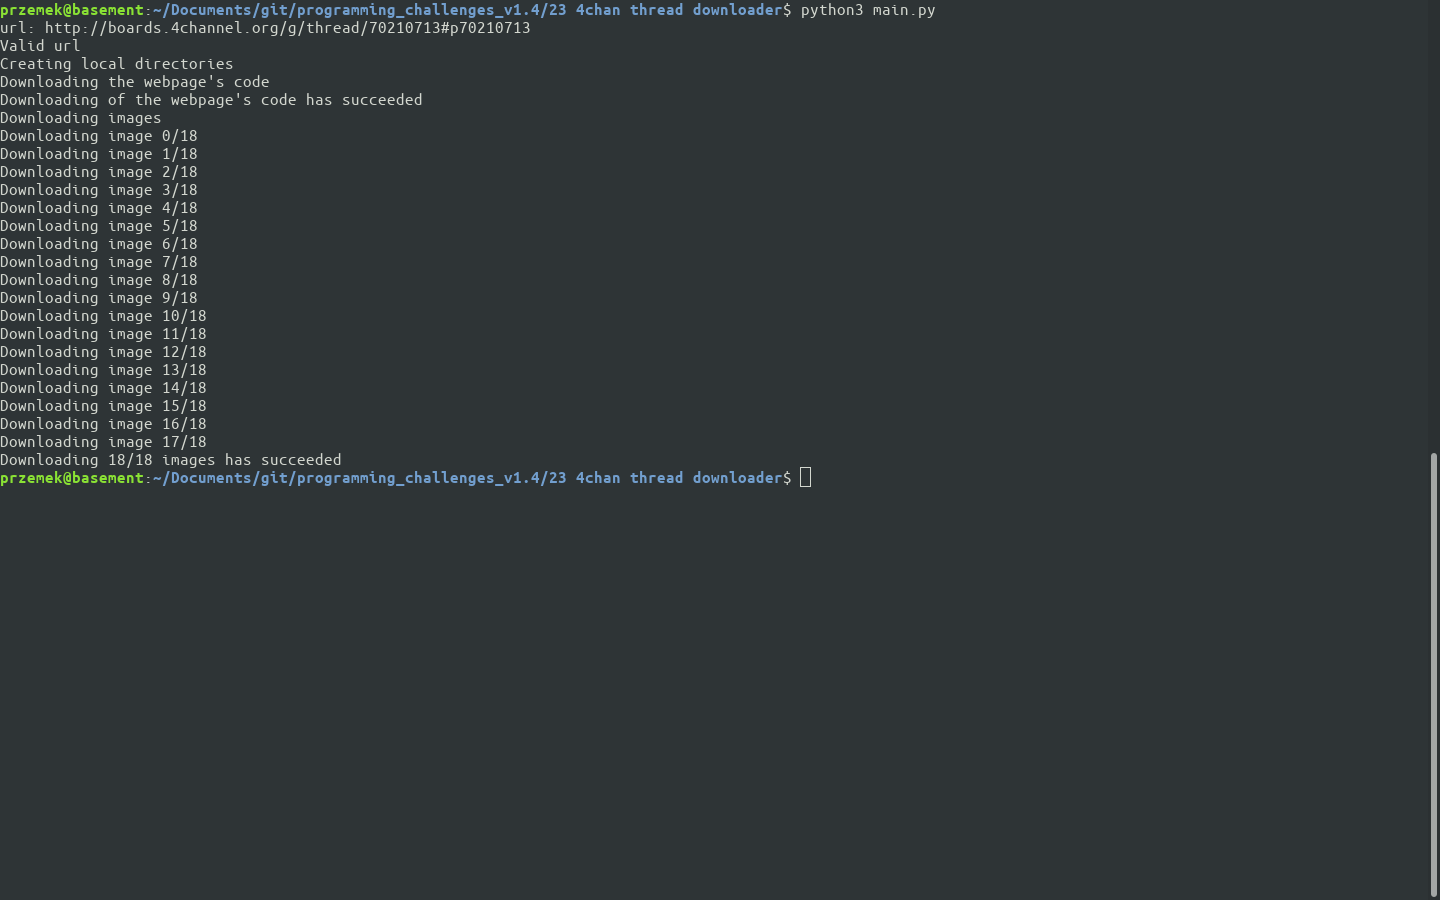
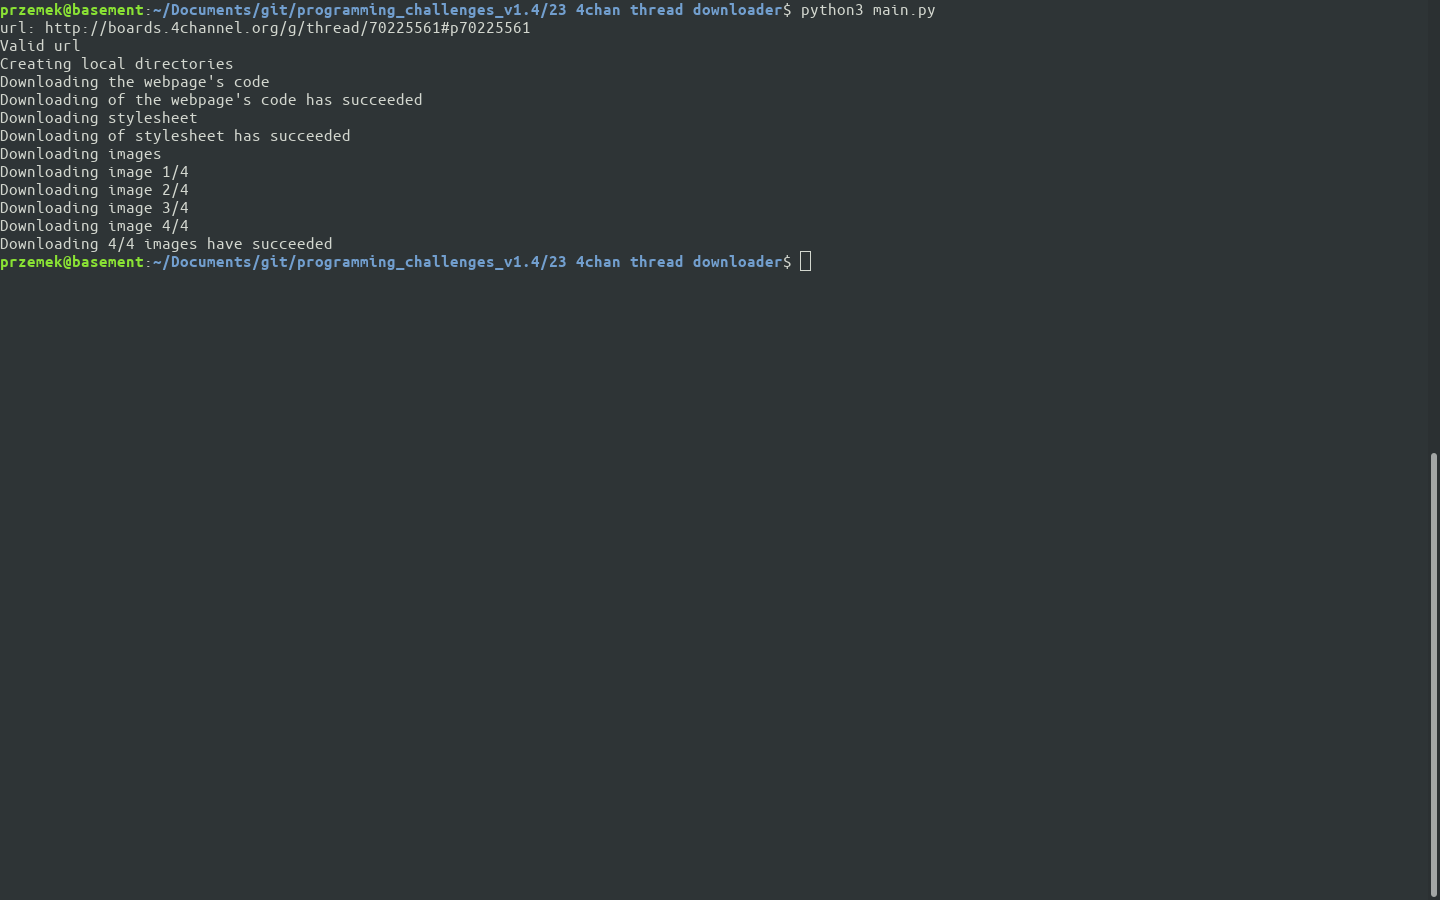
Added css handling

Changed region(s): [[0.0, 0.1244, 0.5625, 0.56], [0.4062, 0.5289, 0.5312, 0.56], [0.2188, 0.1244, 0.25, 0.1556]]

diff --git a/23 4chan thread downloader/main.py b/23 4chan thread downloader/main.py
@@ -51,17 +51,35 @@ class Downloader:
 
   def scrape_website(self):
     soup = BeautifulSoup(self.content, 'html.parser')
+    self.get_stylesheet(soup)
     self.get_body(soup)
     self.get_images(soup)
 
+  def get_stylesheet(self, soup):
+    print('Downloading stylesheet')
+    stylesheet_url = soup.find('link', {'rel': 'stylesheet'})['href']
+    response = requests.get('http:' + stylesheet_url)
+
+    if str(response.status_code) == '200':
+      print('Downloading of stylesheet has succeeded')
+
+      with open(os.path.join(self.dir, 'styles.css'), 'w') as f:
+        f.write(response.text)
+      
+      self.content = '<!DOCTYPE HTML><head><link rel="stylesheet" href="styles.css"></head>'
+    else:
+      print('Downloading of stylesheet has failed')
+      self.content = '<!DOCTYPE HTML>'
+
   def get_body(self, soup):
     thread = soup.findAll('div', {'class': 'thread'})[0]
-    self.content = '<!DOCTYPE HTML><body>{}</body>'.format(thread)
+    self.content += '<body>{}</body>'.format(thread)
 
   def get_images(self, soup):
     print('Downloading images')
     images = soup.findAll('img', href=False)
-    i = j = 0
+    i = 1
+    j = 0
 
     for img in images:
       print('Downloading image {}/{}'.format(i, len(images)))
@@ -85,7 +103,7 @@ class Downloader:
 
       i += 1
 
-    print('Downloading {}/{} images has succeeded'.format(j, len(images)))
+    print('Downloading {}/{} images have succeeded'.format(j, len(images)))
 
   def save_website(self):
     file_path = os.path.join(self.dir, self.dir + '.html')
